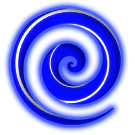
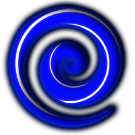
added score text

diff --git a/js/game/Screens/GameScreen.js b/js/game/Screens/GameScreen.js
@@ -84,7 +84,7 @@ GameScreen.prototype = {
 		TGE.Game.GetInstance().mCameraLocation.x = this.mPlayer.worldX + 300;
 
 		// Update the distance and coin displays
-		this.coinDisplay.text = "Score: " + Math.floor(this.mCoins).toString();
+		this.coinDisplay.text = Math.floor(this.mCoins).toString();
 
 		// Read & make level
 		this.ReadNextEvent(event.elapsedTime);
@@ -265,7 +265,7 @@ GameScreen.prototype = {
 
 		this.obstacleLayer.addChild(new ColorWord().setup({
 			worldX : this.mPlayer.worldX + this.percentageOfWidth(1) * 2 + -600,
-			worldY: -60,
+			worldY: -50,
 			image :this.colors[num],
 			gameScreen : this
 		}));
@@ -382,11 +382,18 @@ GameScreen.prototype = {
 	},
 	
 	SetupHud : function() {
+		this.addChild(new TGE.Sprite().setup({
+			x: this.percentageOfWidth(0.08),
+			y: this.percentageOfHeight(0.05),
+			scale: 0.64,
+			image: "score"
+
+		}));
 		//Text that displays coins collected
 		this.coinDisplay = this.UILayer.addChild(new TGE.Text().setup({
-			x : 90,
-			y : 30,
-			text : "Score: 0",
+			x : this.percentageOfWidth(0.16),
+			y : this.percentageOfHeight(0.058),
+			text : "0",
 			font : "40px Comfortaa",
 			color : "white"
 		}));
@@ -444,11 +451,10 @@ GameScreen.prototype = {
 		this.mCoins += 1;
 	},
 	
-	PlayerHitObstacle : function() 
-	{
+	PlayerHitObstacle : function() {
+		this.mPlayer.animArray["run"].stop();
+		this.removeEventListenersFor("update");
 		TGE.Game.GetInstance().audioManager.StopAll();
-
-	 	this.mPlayer.animArray["run"].stop();
 
 
 	 	for(var i =0; i < this.obstacleLayer.numChildren(); i++){

diff --git a/js/game/Runner.js b/js/game/Runner.js
@@ -40,9 +40,10 @@ Runner = function()
         {id:'startscreen_background',   url:'screens/startscreen.png'},
         {id:'endscreen_background',   	url:'screens/endscreen.png'},
         {id:'gamescreen_middleground',  url:'screens/gamescreen.png'},
-        {id:'introscreen',            url:'screens/introscreen.png'},
+        {id:'introscreen',              url:'screens/introscreen.png'},
         {id:'credits_screen',           url:'screens/credits.png'},       
-        {id:'pause_screen',             url:'screens/pause.png'},       
+        {id:'pause_screen',             url:'screens/pause.png'},   
+        {id:'score',                    url:'screens/score.png'},       
            
         // Buttons
         {id:'play_button',   			url:'buttons/play_button.png'},
